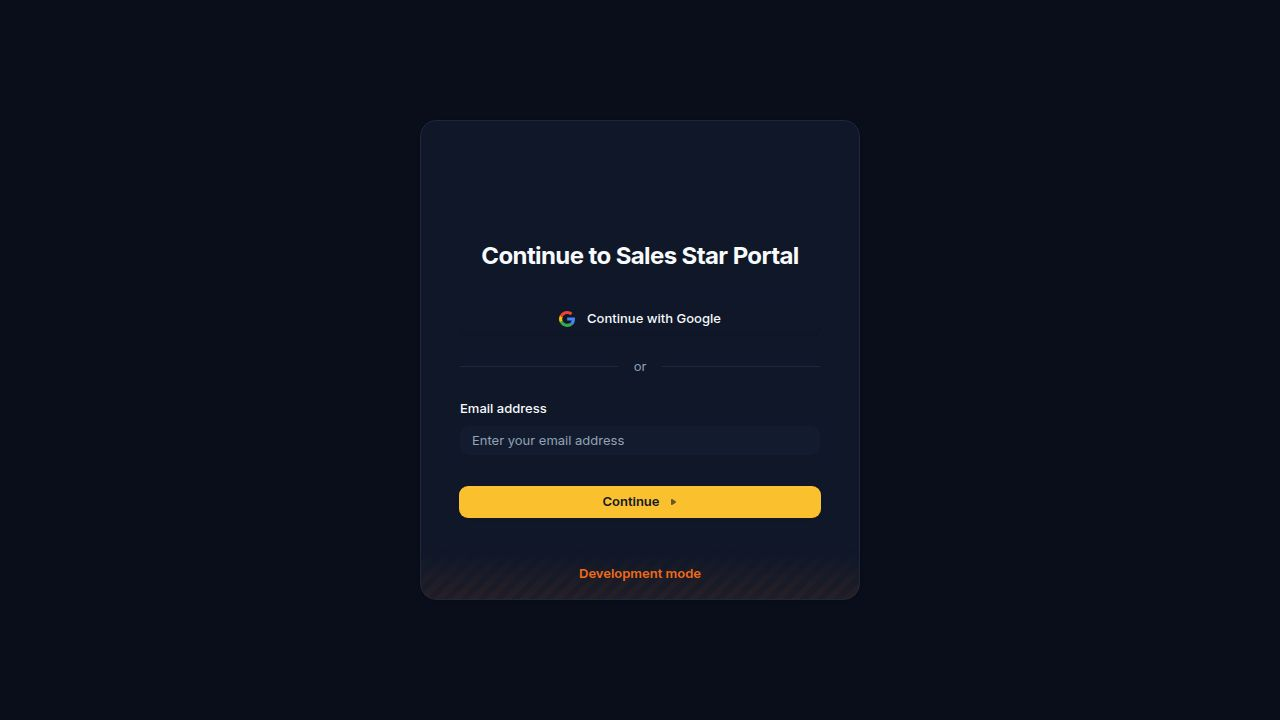
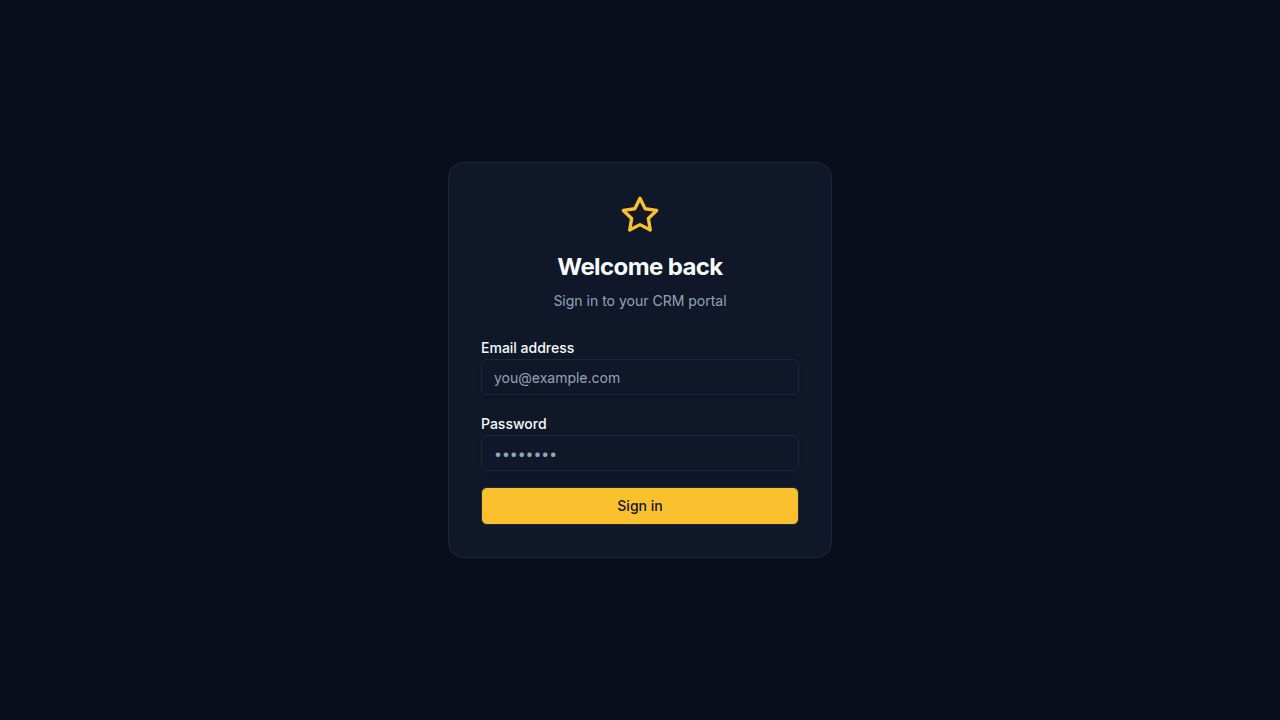
Fix date picker functionality for deals and reports sections
Replace native browser date inputs with a custom DatePicker component in Deals.tsx and Reports.tsx to resolve issues with date pickers not opening.

Replit-Commit-Author: Agent
Replit-Commit-Session-Id: 7482293e-68ad-4c3d-99dc-992fbaf230c5
Replit-Commit-Checkpoint-Type: full_checkpoint
Replit-Commit-Event-Id: 54008814-4825-497f-99d9-f6083f511f37
Replit-Commit-Screenshot-Url: https://storage.googleapis.com/screenshot-production-us-central1/aac2cf81-dea1-4b44-8046-c7c159c1a71e/7482293e-68ad-4c3d-99dc-992fbaf230c5/odp0Q68
Replit-Helium-Checkpoint-Created: true

diff --git a/artifacts/star-crm/src/components/ui/date-picker.tsx b/artifacts/star-crm/src/components/ui/date-picker.tsx
@@ -1,0 +1,50 @@
+import * as React from "react"
+import { format, parseISO } from "date-fns"
+import { CalendarIcon } from "lucide-react"
+
+import { cn } from "@/lib/utils"
+import { Button } from "@/components/ui/button"
+import { Calendar } from "@/components/ui/calendar"
+import { Popover, PopoverContent, PopoverTrigger } from "@/components/ui/popover"
+
+interface DatePickerProps {
+  value: string
+  onChange: (value: string) => void
+  placeholder?: string
+  className?: string
+}
+
+export function DatePicker({ value, onChange, placeholder = "Pick a date", className }: DatePickerProps) {
+  const [open, setOpen] = React.useState(false)
+
+  const selected = value ? parseISO(value) : undefined
+
+  return (
+    <Popover open={open} onOpenChange={setOpen}>
+      <PopoverTrigger asChild>
+        <Button
+          variant="outline"
+          className={cn(
+            "w-full justify-start text-left font-normal h-9",
+            !value && "text-muted-foreground",
+            className
+          )}
+        >
+          <CalendarIcon className="mr-2 h-4 w-4 shrink-0" />
+          {selected ? format(selected, "MMM d, yyyy") : <span>{placeholder}</span>}
+        </Button>
+      </PopoverTrigger>
+      <PopoverContent className="w-auto p-0" align="start">
+        <Calendar
+          mode="single"
+          selected={selected}
+          onSelect={(date) => {
+            onChange(date ? format(date, "yyyy-MM-dd") : "")
+            setOpen(false)
+          }}
+          initialFocus
+        />
+      </PopoverContent>
+    </Popover>
+  )
+}

diff --git a/artifacts/star-crm/src/pages/Deals.tsx b/artifacts/star-crm/src/pages/Deals.tsx
@@ -12,6 +12,7 @@ import { Plus, Search, MoreHorizontal, Pencil, Trash2, Loader2 } from "lucide-re
 import { Button } from "@/components/ui/button";
 import { Input } from "@/components/ui/input";
 import { Label } from "@/components/ui/label";
+import { DatePicker } from "@/components/ui/date-picker";
 import {
   Table,
   TableBody,
@@ -376,10 +377,9 @@ export default function Deals() {
             </div>
             <div className="space-y-1.5">
               <Label>Start Date *</Label>
-              <Input
-                type="date"
+              <DatePicker
                 value={form.dealStartDate}
-                onChange={(e) => set("dealStartDate", e.target.value)}
+                onChange={(v) => set("dealStartDate", v)}
               />
             </div>
             <div className="space-y-1.5">
@@ -444,18 +444,18 @@ export default function Deals() {
             </div>
             <div className="space-y-1.5">
               <Label>Earliest Closing Date</Label>
-              <Input
-                type="date"
+              <DatePicker
                 value={form.earliestClosingDate}
-                onChange={(e) => set("earliestClosingDate", e.target.value)}
+                onChange={(v) => set("earliestClosingDate", v)}
+                placeholder="Pick a date"
               />
             </div>
             <div className="space-y-1.5">
               <Label>Latest Closing Date</Label>
-              <Input
-                type="date"
+              <DatePicker
                 value={form.latestClosingDate}
-                onChange={(e) => set("latestClosingDate", e.target.value)}
+                onChange={(v) => set("latestClosingDate", v)}
+                placeholder="Pick a date"
               />
             </div>
             <div className="sm:col-span-2 flex items-center gap-2">

diff --git a/artifacts/star-crm/src/pages/Reports.tsx b/artifacts/star-crm/src/pages/Reports.tsx
@@ -4,8 +4,8 @@ import { format, subDays } from "date-fns";
 import { Loader2, Download, FileSpreadsheet } from "lucide-react";
 import { Button } from "@/components/ui/button";
 import { Card, CardContent, CardHeader, CardTitle } from "@/components/ui/card";
-import { Input } from "@/components/ui/input";
 import { Skeleton } from "@/components/ui/skeleton";
+import { DatePicker } from "@/components/ui/date-picker";
 
 function CardSkeleton() {
   return <Skeleton className="h-24 w-full rounded-xl" />;
@@ -60,9 +60,9 @@ export default function Reports() {
           <p className="text-muted-foreground mt-1">Analytics and performance tracking.</p>
         </div>
         <div className="flex items-center gap-2">
-          <Input type="date" value={startDate} onChange={e => setStartDate(e.target.value)} className="w-40" />
+          <DatePicker value={startDate} onChange={setStartDate} className="w-44" />
           <span className="text-muted-foreground">to</span>
-          <Input type="date" value={endDate} onChange={e => setEndDate(e.target.value)} className="w-40" />
+          <DatePicker value={endDate} onChange={setEndDate} className="w-44" />
           <Button variant="outline" size="icon" onClick={handleExportCSV} title="Export CSV">
             <FileSpreadsheet className="w-4 h-4" />
           </Button>